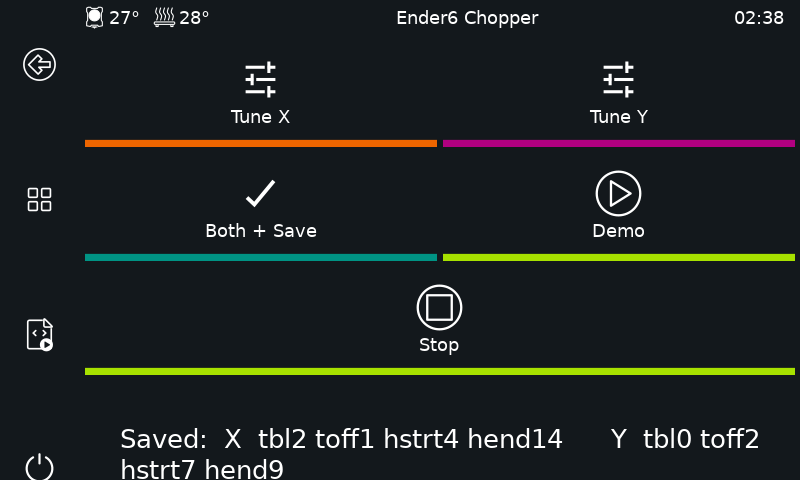
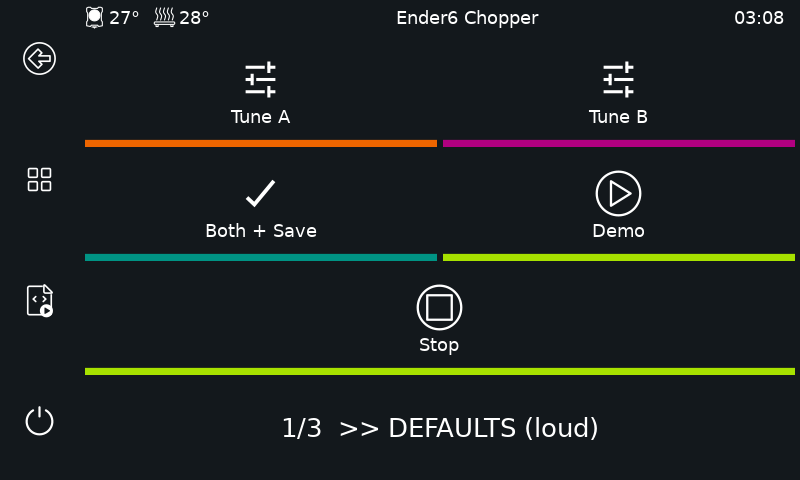
KlipperScreen panel: live in the More menu, label motors A/B on CoreXY
- Move the button from the home screen to the "More" submenu
  ([menu __main more chopper]); it still merges in without a menu rewrite.
- Label the two tune buttons by what actually moves: on CoreXY/CoreXZ
  stepper_x/stepper_y are motors A and B (FORCE_MOVE drives one motor, the head
  goes diagonally), so the buttons and the saved-registers line read A/B there
  and X/Y on other kinematics. The macros still send AXIS=X / AXIS=Y.

diff --git a/klipperscreen/chopper.py b/klipperscreen/chopper.py
@@ -4,7 +4,7 @@ the audible before/after demo from the touchscreen, and watch live progress.
 Buttons send the CHOPPER_* macros over the Klippy websocket; those macros launch
 the tool detached, so the screen stays responsive. Progress comes back on
 display_status.message (the tool's M117) and is shown live under the buttons;
-when idle the same line shows the registers currently saved for each axis.
+when idle the same line shows the registers currently saved for each motor.
 """
 import gi
 
@@ -12,7 +12,6 @@ gi.require_version("Gtk", "3.0")
 from gi.repository import GLib, Gtk, Pango
 from ks_includes.screen_panel import ScreenPanel
 
-AXES = (("X", "stepper_x"), ("Y", "stepper_y"))
 REGISTERS = ("driver_tbl", "driver_toff", "driver_hstrt", "driver_hend")
 
 
@@ -21,17 +20,23 @@ class Panel(ScreenPanel):
     def __init__(self, screen, title):
         super().__init__(screen, title or _("Chopper Autotune"))
 
+        # on CoreXY/CoreXZ stepper_x/stepper_y are the two motors (A and B), not the
+        # X/Y axes, so label them the way the mechanics actually move
+        kinematics = (self._printer.get_config_section("printer") or {}).get("kinematics", "")
+        first, second = ("A", "B") if kinematics in ("corexy", "corexz") else ("X", "Y")
+        self.motors = (("stepper_x", first), ("stepper_y", second))
+
         actions = [
-            ("fine-tune", _("Tune X"), "color1", "CHOPPER_TUNE AXIS=X",
-             _("Tune the X axis? The printer will home and move for several minutes.")),
-            ("fine-tune", _("Tune Y"), "color2", "CHOPPER_TUNE AXIS=Y",
-             _("Tune the Y axis? The printer will home and move for several minutes.")),
+            ("fine-tune", _("Tune %s") % first, "color1", "CHOPPER_TUNE AXIS=X",
+             _("Tune %s? The printer will home and move for several minutes.") % first),
+            ("fine-tune", _("Tune %s") % second, "color2", "CHOPPER_TUNE AXIS=Y",
+             _("Tune %s? The printer will home and move for several minutes.") % second),
             ("complete", _("Both + Save"), "color3", "CHOPPER_TUNE AXIS=XY SAVE=1",
-             _("Tune both axes and save the result to the printer config?\n"
+             _("Tune both and save the result to the printer config?\n"
                "About 20 minutes of movement; Klipper restarts at the end.")),
             ("resume", _("Demo"), "color4", "CHOPPER_SHOW AXIS=X ROUNDS=3",
-             _("Play the driver defaults against the tuned registers on X\n"
-               "so you can hear the difference?")),
+             _("Play the driver defaults against the tuned registers on %s\n"
+               "so you can hear the difference?") % first),
         ]
 
         grid = Gtk.Grid(column_homogeneous=True, row_homogeneous=True, vexpand=False)
@@ -72,10 +77,10 @@ class Panel(ScreenPanel):
         self.status.set_markup(f"<span size='x-large'>{GLib.markup_escape_text(text)}</span>")
 
     def saved_registers(self):
-        axes = []
-        for axis, stepper in AXES:
+        saved = []
+        for stepper, name in self.motors:
             section = self._printer.get_config_section(f"tmc2209 {stepper}")
             fields = " ".join(f"{reg[7:]}{section[reg]}" for reg in REGISTERS if reg in section)
             if fields:
-                axes.append(f"{axis}  {fields}")
-        return _("Saved:  ") + "      ".join(axes) if axes else _("Not tuned yet — pick an axis above")
+                saved.append(f"{name}  {fields}")
+        return _("Saved:  ") + "      ".join(saved) if saved else _("Not tuned yet — pick one above")

diff --git a/README.md b/README.md
@@ -91,9 +91,9 @@ That is the whole workflow: the tool finds the resonance speed of each axis, run
 
 ### From the touchscreen — KlipperScreen
 
-If you run [KlipperScreen](https://github.com/KlipperScreen/KlipperScreen), `install.sh` adds a **Chopper** button to its main menu (it merges with your existing menu, nothing is rewritten). One tap opens a panel with:
+If you run [KlipperScreen](https://github.com/KlipperScreen/KlipperScreen), `install.sh` adds a **Chopper** button to its **More** menu (it merges with your existing menu, nothing is rewritten). One tap opens a panel with:
 
-- **Tune X** / **Tune Y** — tune one axis and print the recommendation;
+- **Tune A** / **Tune B** — tune one motor and print the recommendation (on CoreXY `stepper_x`/`stepper_y` are the two motors A and B, not the X/Y axes; on other kinematics the buttons read **Tune X** / **Tune Y**);
 - **Both + Save** — tune both axes and write the winners into the config;
 - **Demo** — play the driver defaults against the tuned registers on the motor so you can *hear* the difference;
 - **Stop** — abort a running job; the tool restores the registers and re-homes before it exits.